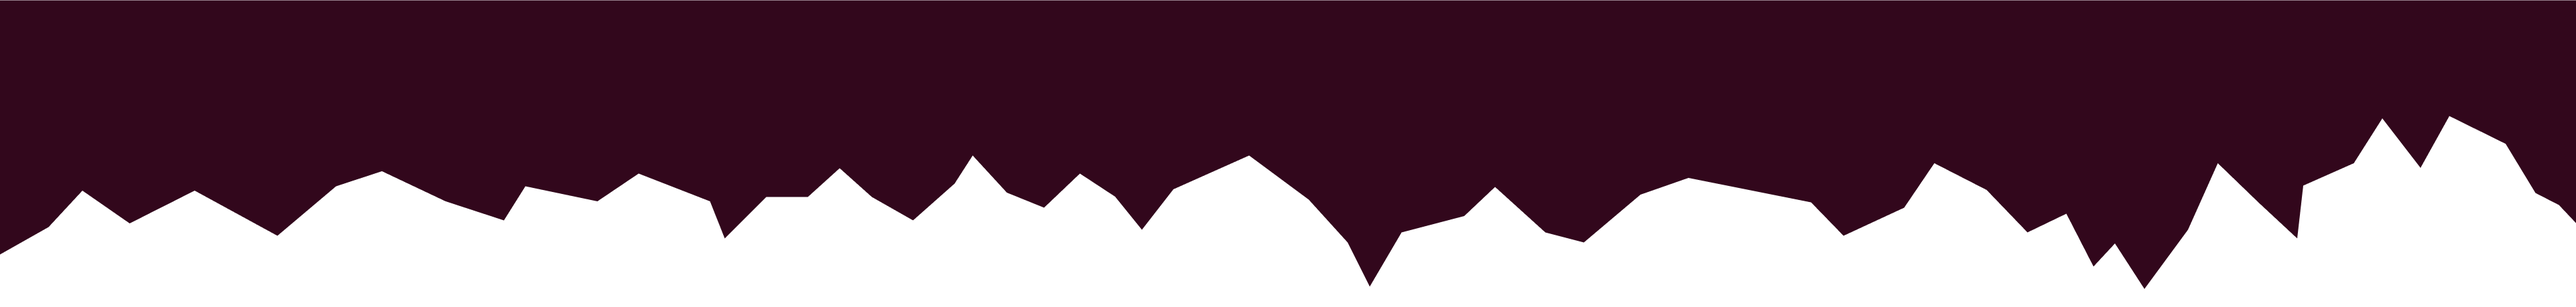
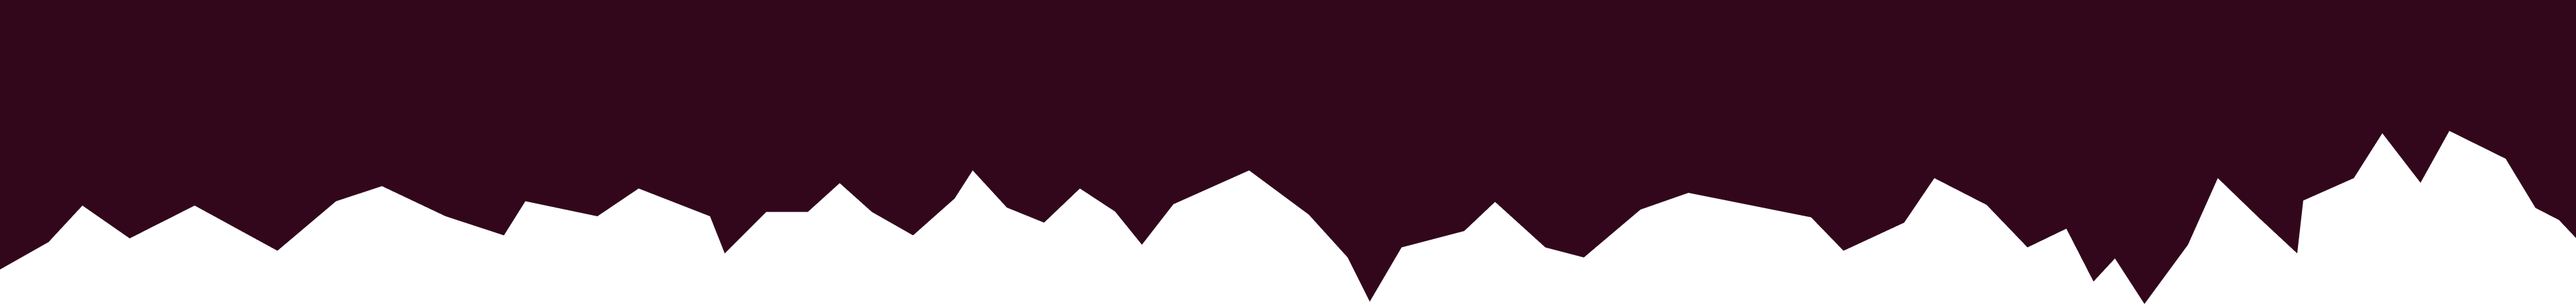
d

Changed region(s): [[0.1249, 0.4009, 1.0, 0.9868], [0.0, 0.6167, 0.1249, 0.8634]]

diff --git a/index.html b/index.html
@@ -22,6 +22,7 @@
         <img src="images/TopClouds.png" alt="" class="TopClouds">
         <img src="images/BottomClouds.png" alt="" class="BottomClouds">
         <img src="images/Mountains.png" alt="" class="Mountains">
+        <img src="images/Sun.png" alt="" class="Sun">
     </div>
 
     <div class="Topbar">
@@ -46,24 +47,46 @@
             
             <div class="AboutMeContainer">
                 <div class="BriefAboutMeContainer">
-                    <h2 class="AboutMeHeaderText">About</h2>
+                    <h2 class="HeaderText">About</h2>
                     <p class="AboutMeText">Lorem ipsum dolor sit, amet consectetur adipisicing elit.</p>
                 </div>
                 
                 <div class="LongAboutMeContainer">
-                    <p class="LongAboutMe">
+                    <p class="LongAboutMeText">
                         Lorem ipsum, dolor sit amet consectetur adipisicing elit. Vitae, in! Eius excepturi provident, adipisci doloribus ipsa exercitationem aspernatur, quas quod fugiat facilis accusamus atque quae velit quidem? Excepturi, expedita quod adipisci enim autem ratione est.
                     </p>
                 </div>
+
+                <div class="SkillsContainer">
+                    <div class="SkillsHeaderContainer">
+                        <h2 class="HeaderText">Skillset</h2>
+                    </div>
+                    <div>
+                        <button class="SkillButton">Programming</button>
+                        <button class="SkillButton">Scripting</button>
+                        <button class="SkillButton">Building</button>
+                        <button class="SkillButton">UI Design</button>
+                        <button class="SkillButton">UX Design</button>
+                        <button class="SkillButton">System Engineering</button>
+                        <button class="SkillButton">QA</button>
+                        <button class="SkillButton">Modelling</button>
+                        <button class="SkillButton">Game Design</button>
+                        <button class="SkillButton">Map Design</button>
+                    </div>
+                </div>
             </div>
+
             <img src="images/CaveTop.png" alt="" class="CaveTop">
             <div class="CaveContainer">
-                <p class="RegularText" style="margin-left: 30%; margin-right: 30%; margin-bottom: 50px;">Lorem ipsum dolor sit amet consectetur adipisicing elit. Similique in accusantium voluptatem laborum adipisci distinctio a ab! Molestias, modi ut.</p>
+                <p class="RegularText" style="margin-left: 30%; margin-right: 30%; margin-bottom: 50px; margin-top: 60px;">Lorem ipsum dolor sit amet consectetur adipisicing elit. Similique in accusantium voluptatem laborum adipisci distinctio a ab! Molestias, modi ut.</p>
 
-                <div class="ExperiencePanelContainer">
+                <div class="ToolPanelContainer">
                     <div style="display: flex; justify-content: center; align-items: center; margin-top: 20px;">
-                        <img src="StaticImages/ExperiencePanelShowcase1.png" alt="" style="height: 524px; width: auto;">
-                        <div class="ExperiencePanel">
+                        <div class="ToolPanelImageContainer">
+                            <img src="StaticImages/ExperiencePanelShowcase1.png" alt="" class="ToolPanelImage">
+                        </div>
+                        
+                        <div class="ToolPanel">
                             <p class="RegularText" style="margin: 20px; justify-content: center; align-items: center; display: flex; font-size: 25px; font-weight: 600;">
                                 Figma & Paint 3D
                             </p>
@@ -74,8 +97,11 @@
                     </div>
 
                     <div style="display: flex; justify-content: center; align-items: center; margin-top: 20px;">
-                        <img src="StaticImages/ExperiencePanelShowcase2.png" alt="" style="height: 524px; width: auto;">
-                        <div class="ExperiencePanel">
+                        <div class="ToolPanelImageContainer">
+                            <img src="StaticImages/ExperiencePanelShowcase2.png" alt="" class="ToolPanelImage">
+                        </div>
+
+                        <div class="ToolPanel">
                             <p class="RegularText" style="margin: 20px; justify-content: center; align-items: center; display: flex; font-size: 25px; font-weight: 600;">
                                 Visual Studio Code
                             </p>
@@ -86,8 +112,11 @@
                     </div>
 
                     <div style="display: flex; justify-content: center; align-items: center; margin-top: 20px;">
-                        <img src="StaticImages/ExperiencePanelShowcase3.png" alt="" style="height: 524px; width: auto;">
-                        <div class="ExperiencePanel">
+                        <div class="ToolPanelImageContainer">
+                            <img src="StaticImages/ExperiencePanelShowcase3.png" alt="" class="ToolPanelImage">
+                        </div>
+
+                        <div class="ToolPanel">
                             <p class="RegularText" style="margin: 20px; justify-content: center; align-items: center; display: flex; font-size: 25px; font-weight: 600;">
                                 Roblox Studio
                             </p>
@@ -98,12 +127,20 @@
                     </div>
                 </div>
             </div>
-            
         </div>
 
-        <div class="Experience">
+        <div class="Tools">
             <img src="images/CaveBottom.png" alt="" class="CaveBottom">
+            <div class="LongExperienceContainer" style="margin-bottom: 100px;">
+                <h2 class="HeaderText"">Experience</h2>
+                <p class="RegularText">
+                    Lorem ipsum, dolor sit amet consectetur adipisicing elit. Vitae, in! Eius excepturi provident, adipisci doloribus ipsa exercitationem aspernatur, quas quod fugiat facilis accusamus atque quae velit quidem? Excepturi, expedita quod adipisci enim autem ratione est.
+                </p>
+            </div>
 
+            <div class="ExperiencePanelContainer">
+
+            </div>
         </div>
     </div>
     

diff --git a/styles.css b/styles.css
@@ -6,13 +6,14 @@ body {
 
 html, body {
     overflow-x: hidden;
+    overscroll-behavior: none;
 }
 
 .GroundContainer {
     width: 100%;
 }
 
-.ForegroundRocks, .BackgroundRocks, .TopClouds, .BottomClouds, .Mountains {
+.ForegroundRocks, .BackgroundRocks, .TopClouds, .BottomClouds, .Mountains, .Sun {
     width: 100%;
     height: auto;
     color: #32071C;
@@ -35,6 +36,10 @@ html, body {
     display: block;
 }
 
+.Sun {
+    z-index: -3;
+}
+
 .ForegroundRocks {
     z-index: 2;
 }
@@ -44,7 +49,7 @@ html, body {
 }
 
 .Skyscape {
-    z-index: -3;
+    z-index: -4;
     background: linear-gradient(to bottom, #D094BE, #FF9479, #FF5050);
     width: 100%;
     height: 100%;
@@ -68,7 +73,7 @@ html, body {
 .AboutMe {
     height: auto;
     width: 100%;
-    background: linear-gradient(to bottom, #32071C, #32103e);
+    background: linear-gradient(to bottom, #32071C, #120e14);
     z-index: 200;
     position: relative;
     display: flex;
@@ -134,15 +139,15 @@ All styles below are only for ContentContainer child elements
 }
 
 .JustADevLabel {
-    color: rgb(255, 24, 78);
+    color: rgb(255 24 78);
 }
 
 .FullstackGameLabel {
-    color: rgb(236, 60, 116);
+    color: rgb(236 60 116);
 }
 
 .DeveloperLabel {
-    color: rgb(236, 83, 208);
+    color: rgb(226 130 209);
 }
 
 /*
@@ -153,15 +158,54 @@ About me container and child elements
 
 */
 
-.AboutMeContainer {
-    align-items: flex-end;
+.AboutMeContainer, .SkillsContainer {
+    align-items: flex-start;
     justify-content: center;
+    flex-wrap: wrap;
+    display: flex;
+    margin-left: 10%;
+    margin-right: 10%;
+}
+
+.SkillsContainer {
+    margin: 0;
+    flex-direction: column;
+    display: flex;
+    min-width: 300px;
+    max-width: 300px;
+    width: 300px;
+}
+
+.SkillButton {
+    border: #32103e;
+    padding: 6px;
+    margin-top: 10px;
+    margin-left: 1px;
+    margin-right: 1px;
+    font-family: Poppins;
+    font-weight: 500;
+    font-size: 15px;
+    color: #ffc0d9;
+    background-color: #8c3c56;
+    border-radius: 2px;
+    cursor: pointer;
+    transition: 0.2s;
+}
+
+.SkillButton:hover {
+    color: #ffc0d9ba;
+    background-color: #8c3c5580;
+}
+
+.LongExperienceContainer {
+    flex-direction: column;
     display: flex;
     margin-left: 20%;
     margin-right: 20%;
+    margin-top: 100px;
 }
 
-.AboutMeText, .LongAboutMe, .RegularText {
+.AboutMeText, .LongAboutMeText, .RegularText, .LongExperienceText {
     color: white;
     font-family: Poppins;
     font-weight: 300;
@@ -174,16 +218,30 @@ About me container and child elements
     margin-bottom: auto;
 }
 
-.LongAboutMe {
-    margin-left: 50px;
+.LongAboutMeText {
+    margin-left: 80px;
+    margin-right: 80px;
+    margin-top: 68px;
 }
 
-.AboutMeHeaderText {
-    color: rgb(198, 174, 255);
+.HeaderText {
+    color: rgb(255 184 184);
     font-family: Poppins;
     font-weight: 600;
     font-size: 45px;
     margin: 0;
+    background: linear-gradient(180deg, rgb(255 184 184), rgb(244 135 135));
+    background-clip: text;
+    -webkit-background-clip: text;
+    -webkit-text-fill-color: transparent;
+}
+
+.BriefAboutMeContainer {
+    flex: 0.2;
+}
+
+.LongAboutMeContainer {
+    flex: 0.5;
 }
 
 /*
@@ -194,10 +252,10 @@ Cave elements
 
 */
 
-.Experience {
-    height: 1000px;
+.Tools {
+    height: auto;
     width: 100%;
-    background: linear-gradient(to top, #32071C, #32103e);
+    background: linear-gradient(to top, #32071C, #26141b);
     z-index: 200;
     position: relative;
     display: flex;
@@ -206,15 +264,25 @@ Cave elements
     flex-direction: column;
 }
 
-.ExperiencePanel {
+.ToolPanel {
     height: 500px;
-    width: 350px;
-    background-color: #320f3a;
+    width: 300px;
+    background-color: #200b19;
     margin-right: 20px;
     padding: 12px;
 }
 
-.ExperiencePanelContainer {
+.ToolPanelImageContainer {
+    overflow: hidden;
+}
+
+.ToolPanelImage {
+    height: 520px;
+    width: auto;
+    filter: blur(4px);
+}
+
+.ToolPanelContainer {
     justify-content: center;
     align-items: center;
     display: flex;
@@ -241,4 +309,18 @@ Cave elements
     margin: 0;
     padding: 0;
     display: block;
+}
+
+/*
+
+
+Experience stuff
+
+
+*/
+
+.ExperiencePanelContainer {
+    background-color: #120e14;
+    width: 800px;
+    height: 800px;
 }

diff --git a/scripts.js b/scripts.js
@@ -7,4 +7,6 @@ document.addEventListener("scroll", function () {
     document.querySelector(".TopClouds").style.transform = `translateY(${scrollY * 0.85}px)`;
     document.querySelector(".BottomClouds").style.transform = `translateY(${scrollY * 0.75}px)`;
     document.querySelector(".Mountains").style.transform = `translateY(${scrollY * 0.4}px)`;
+    document.querySelector(".Sun").style.transform = `translateY(${scrollY * 0.6}px)`;
+    document.querySelector(".Skyscape").style.transform = `translateY(${scrollY * 0.4}px)`;
 }, { passive: true });
